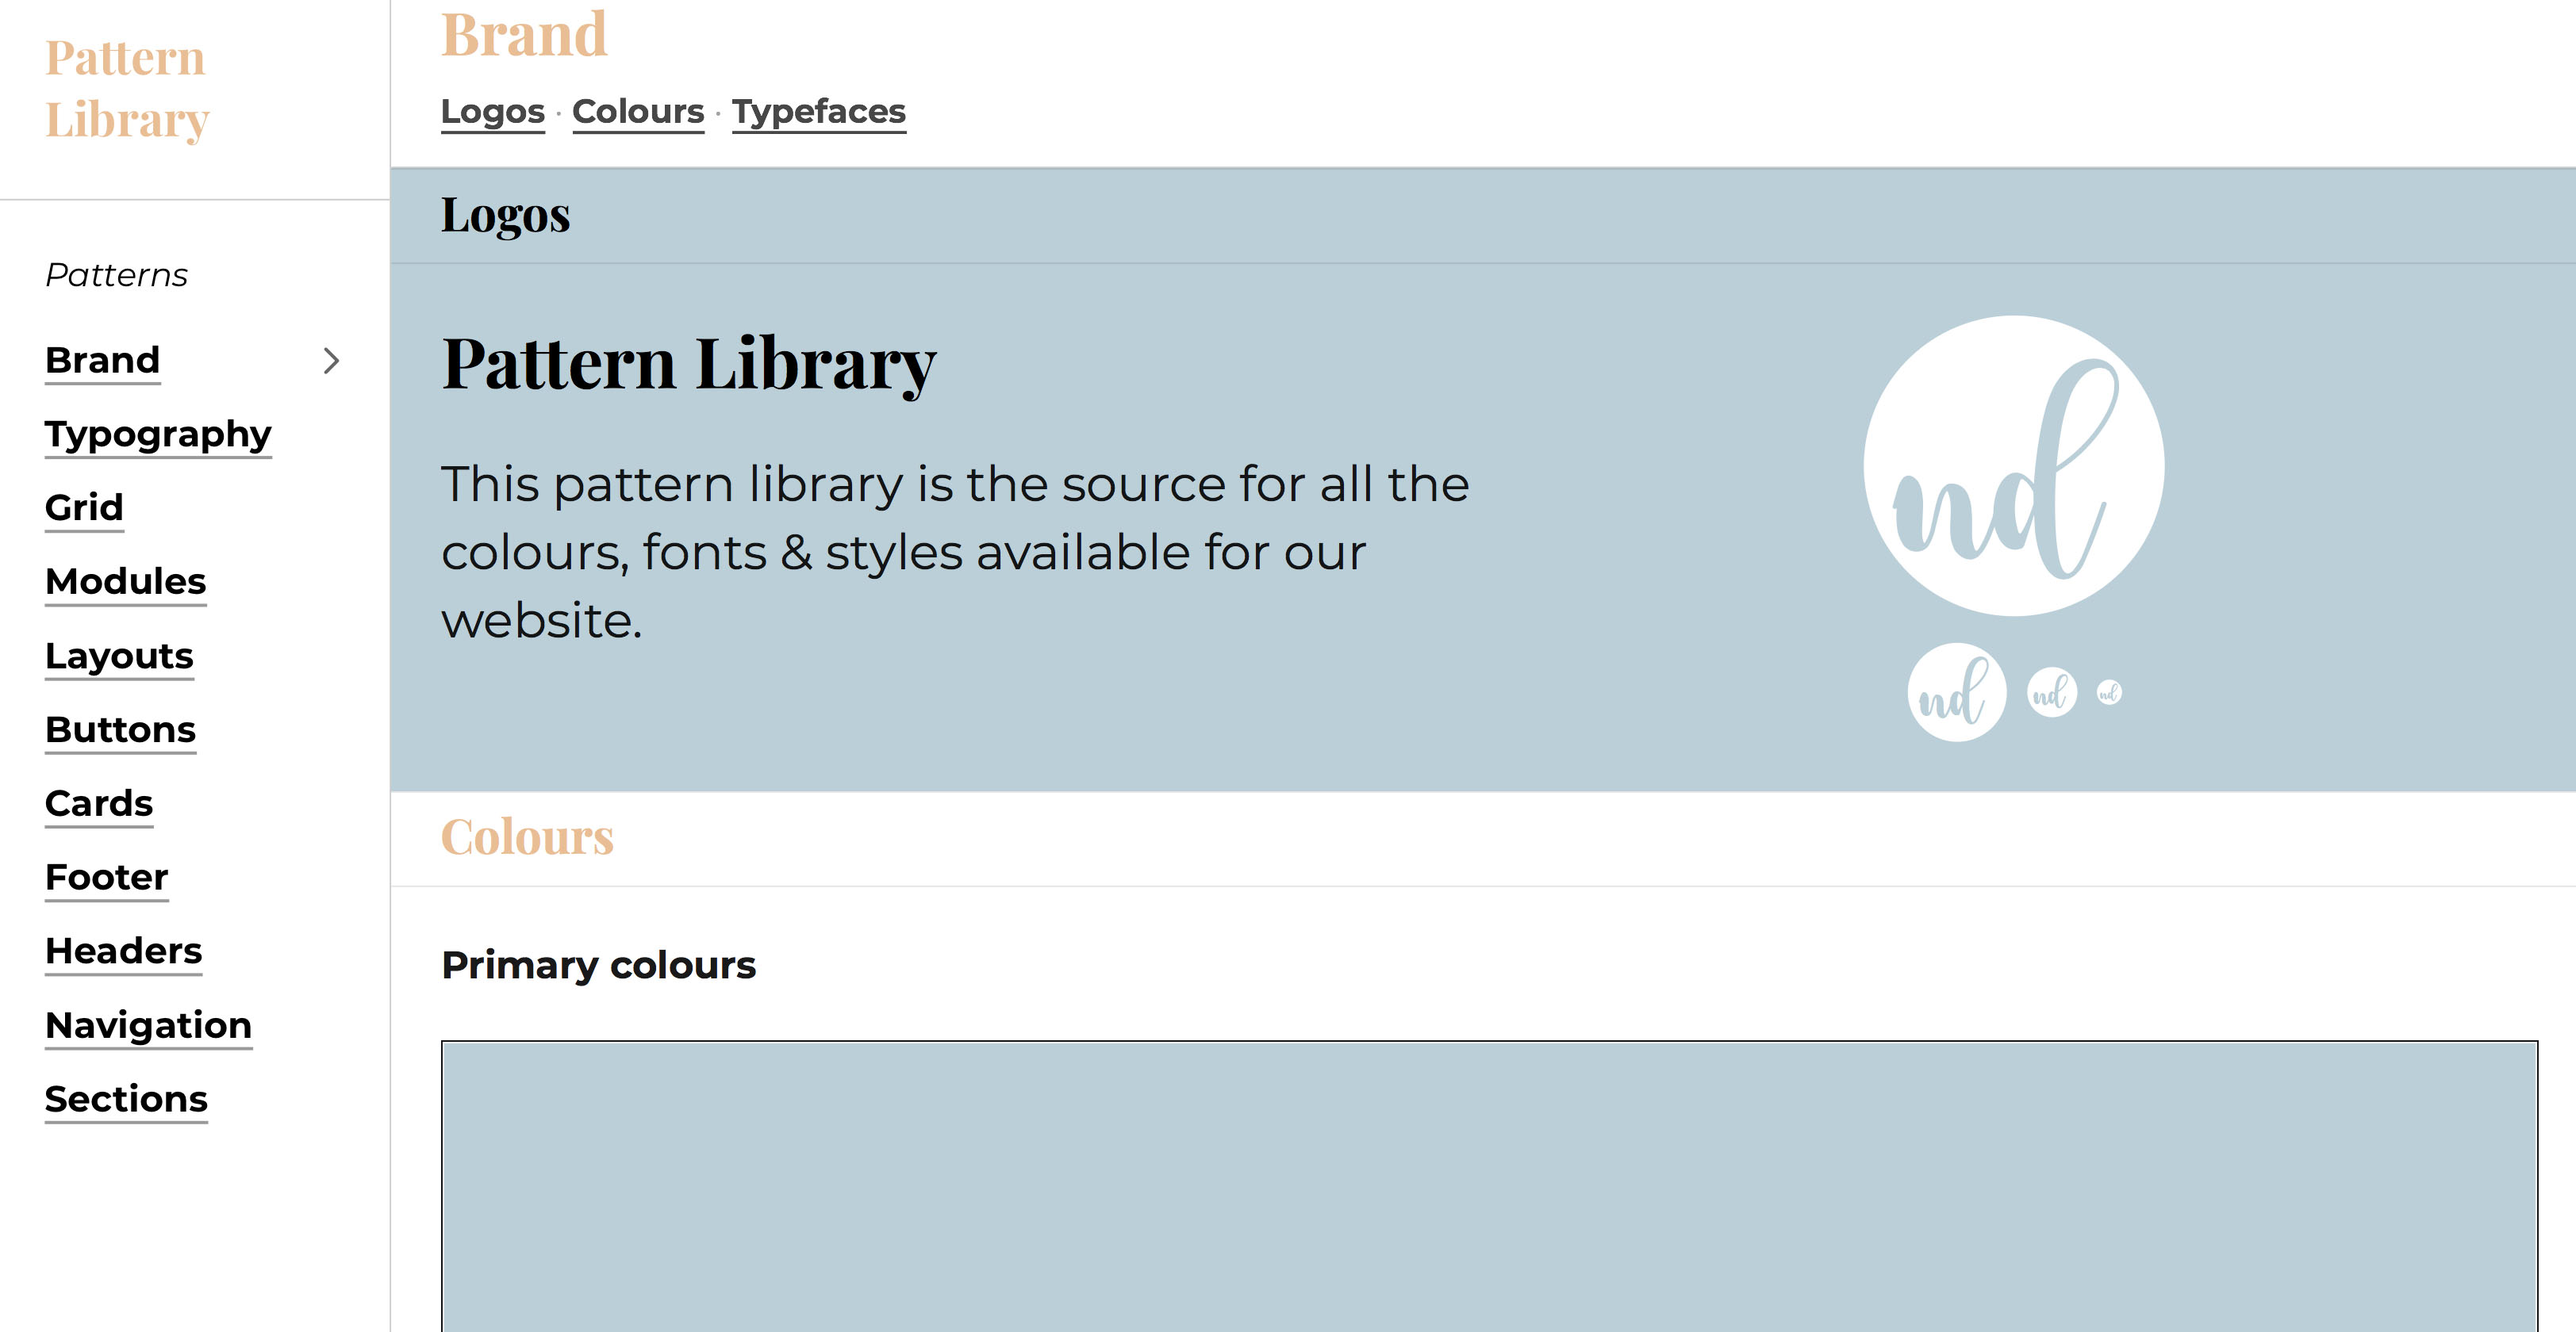
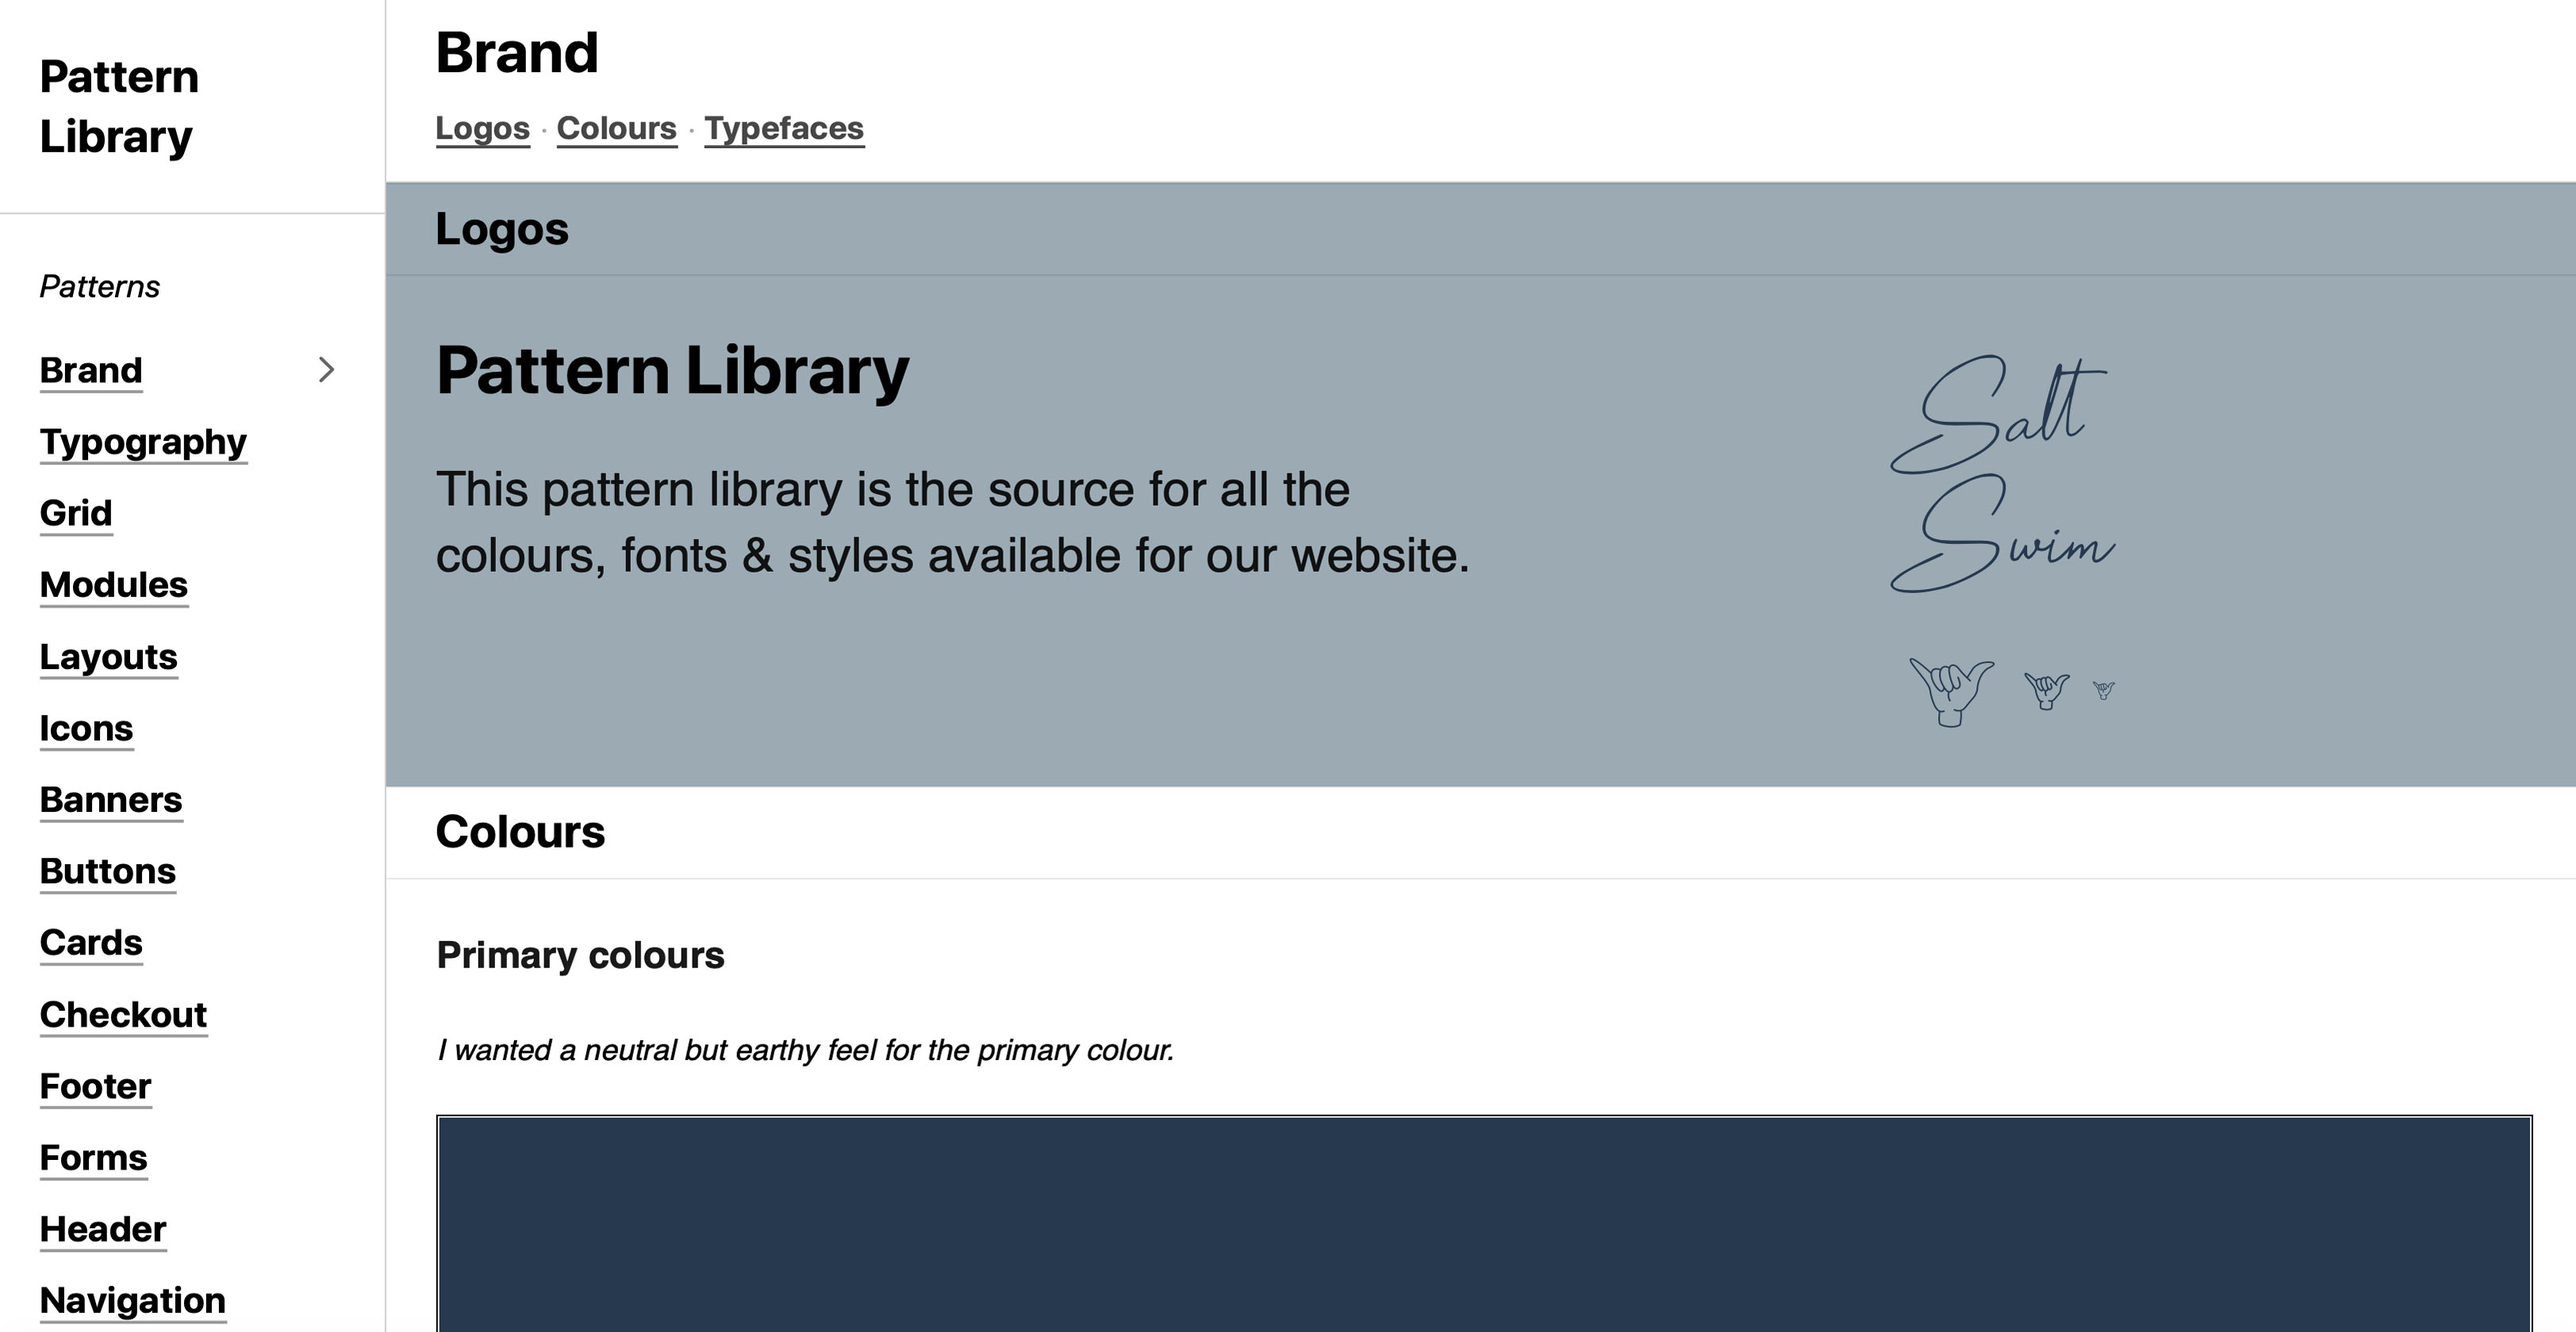
Adds images & fixes issues

diff --git a/ecommerce.html b/ecommerce.html
@@ -2,11 +2,16 @@
 layout: web
 ---
 
-{% pattern navigation/web-nav %}
+<div class="push-0 pad-t-1-4">
+  {% pattern navigation/web-nav %}
+</div>
+<div class="gutter-2">
+  <hr></hr>
+</div>
 
 <div class="gutter pad-b-2">
   <div class="text-center">
-    <h2 class="pad-t-2 push-0 nina">Salt Swim</h2>
+    <h2 class="pad-t push-0 nina">Salt Swim</h2>
   </div>
   <div class="grid gutter-2 pad-t-2">
     <div class="unit xs-1 s-1 m-1 l-1-2 gutter-2">
@@ -31,20 +36,32 @@ layout: web
 
   <div class="grid gutter-2 pad-t-2">
     <div class="unit xs-1 s-1 m-1 l-1-2 gutter-2">
-      <img class="img-flex" src="/images/ecom-patternl.jpg" alt="Pattern library of the new site">
+      <img class="img-flex" src="/images/ss-wireframes.jpg" alt="Wireframes for Salt Swim">
     </div>
     <div class="unit xs-1 s-1 m-1 l-1-2 gutter-2">
-      <h4 class="step2 push-0 pad-b-1-4 pad-t">Step 2: Pattern Library</h4>
-      <p class="push-0 pad-b-1-4 milli">I moved on to working more on how the website would flow. I designed the layout of every page and every screensize for the website I was building.</p>
+      <h4 class="step2 push-0 pad-b-1-4 pad-t">Step 2: Wireframes</h4>
+      <p class="push-0 pad-b-1-4 milli">I quickly sketched out some wireframes to invision how my website would look like for all the different screen sizes. The wireframes we're a very important step, since it helps to code the website when I can tell where I want each component of the website to be.</p>
     </div>
   </div>
+
   <div class="grid gutter-2 pad-t-2">
     <div class="unit xs-1 s-1 m-1 l-1-2 gutter-2">
-      <h4 class="push-0 pad-b-1-4">Step 3: Final Result</h4>
-      <p class="push-0 pad-b-1-4 milli">The first step was to research the brand. I went on the website to find how it looks like and what I wanted to change. The website was already quite simple but I wanted to further enhance that but still make the website appealing.</p>
+      <h4 class="push-0 pad-b-1-4">Step 3: Pattern Library</h4>
+      <p class="push-0 pad-b-1-4 milli">Apart of this project was to work with a pattern library. In my opinion, using a pattern library is very useful. It's easier to create a component of your website. It also keeps your code so much cleaner, it's less overwhelming to look at.</p>
     </div>
     <div class="unit xs-1 s-1 m-1 l-1-2 gutter-2">
-      <img class="img-flex" src="/images/newsite.jpg" alt="Final result of the website">
+      <img class="img-flex" src="/images/ecom-patternl.jpg" alt="Pattern library of the new site">
     </div>
   </div>
+
+  <div class="grid gutter-2 pad-t-2">
+    <div class="unit xs-1 s-1 m-1 l-1-2 gutter-2">
+      <img class="img-flex" src="/images/newsite.jpg" alt="Final result of the Salt Swim website">
+    </div>
+    <div class="unit xs-1 s-1 m-1 l-1-2 gutter-2">
+      <h4 class="step2 push-0 pad-b-1-4 pad-t">Final Result</h4>
+      <p class="push-0 pad-b-1-4 milli">The first step was to research the brand. I went on the website to find how it looks like and what I wanted to change. The website was already quite simple but I wanted to further enhance that but still make the website appealing.</p>
+    </div>
+  </div>
+
 </div>

diff --git a/annual-report.html b/annual-report.html
@@ -2,11 +2,16 @@
 layout: print
 ---
 
-{% pattern navigation/print-nav %}
+<div class="push-0 pad-t-1-4">
+  {% pattern navigation/print-nav %}
+</div>
+<div class="gutter-2">
+  <hr></hr>
+</div>
 
 <div class="gutter pad-b-2">
   <div class="text-center">
-    <h2 class="pad-t-2 push-0 nina">Annual Report</h2>
+    <h2 class="pad-t push-0 nina">Annual Report</h2>
   </div>
   <div class="grid gutter-2 pad-t-2">
     <div class="unit xs-1 s-1 m-1 l-1-2 gutter-2">

diff --git a/inforgraphic.html b/inforgraphic.html
@@ -2,11 +2,16 @@
 layout: print
 ---
 
-{% pattern navigation/print-nav %}
+<div class="push-0 pad-t-1-4">
+  {% pattern navigation/print-nav %}
+</div>
+<div class="gutter-2">
+  <hr></hr>
+</div>
 
 <div class="gutter pad-b-2">
   <div class="text-center">
-    <h2 class="pad-t-2 push-0 nina">Infograph </h2>
+    <h2 class="pad-t push-0 nina">Infograph </h2>
   </div>
   <div class="grid gutter-2 pad-t-2">
     <div class="unit xs-1 s-1 m-1 l-1-2 gutter-2">

diff --git a/gif.html b/gif.html
@@ -2,11 +2,16 @@
 layout: motion
 ---
 
-{% pattern navigation/motion-nav %}
+<div class="push-0 pad-t-1-4">
+  {% pattern navigation/motion-nav %}
+</div>
+<div class="gutter-2">
+  <hr></hr>
+</div>
 
 <div class="gutter pad-b-2">
   <div class="text-center">
-    <h2 class="pad-t-2 push-0 nina">GIF</h2>
+    <h2 class="pad-t push-0 nina">GIF</h2>
   </div>
   <div class="grid gutter-2 pad-t-2">
     <div class="unit xs-1 s-1 m-1-2 l-1-2 gutter-2">

diff --git a/motion.html b/motion.html
@@ -11,7 +11,7 @@ layout: motion
 
 <div class="gutter pad-b-2">
   <div class="text-center">
-    <h2 class="pad-t-2 push-0 nina">Parallax Web Scroll</h2>
+    <h2 class="pad-t push-0 nina">Parallax Web Scroll</h2>
   </div>
   <div class="grid gutter-2 pad-t-2">
     <div class="unit xs-1 s-1 m-1 l-1-2 gutter-2">

diff --git a/print.html b/print.html
@@ -11,7 +11,7 @@ layout: print
 
 <div class="gutter pad-b-2">
   <div class="text-center">
-    <h2 class="pad-t-2 push-0 nina">La Maison du rôti</h2>
+    <h2 class="pad-t push-0 nina">La Maison du rôti</h2>
   </div>
   <div class="grid gutter-2 pad-t-2">
     <div class="unit xs-1 s-1 m-1 l-1-2 gutter-2">
